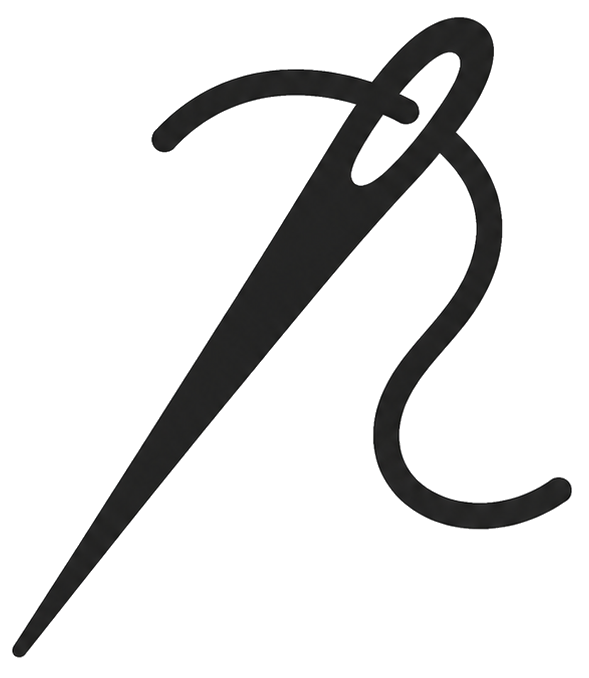
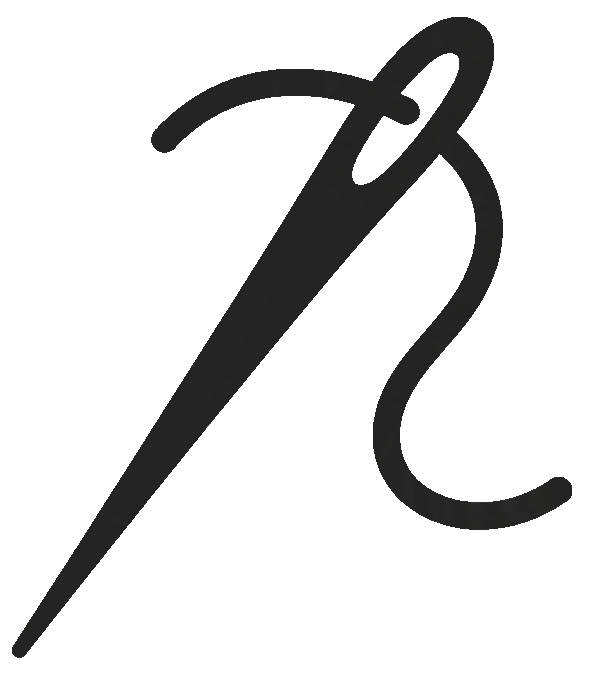
UI Styling

Changed region(s): [[0.9474, 0.7124, 0.9779, 0.7434]]

diff --git a/patchwork-app/public/styles.css b/patchwork-app/public/styles.css
@@ -229,11 +229,11 @@ button {
 .topbar {
   position: relative;
   display: flex;
-  min-height: 74px;
+  min-height: 82px;
   align-items: center;
   justify-content: flex-start;
   gap: 14px;
-  padding: 12px 18px 11px;
+  padding: 17px 18px 13px;
   border-bottom: 1px dashed var(--line-strong);
   background: var(--topbar-bg);
   backdrop-filter: blur(18px);
@@ -312,6 +312,45 @@ button {
   color: var(--ink);
   background: var(--surface);
   box-shadow: 0 8px 18px rgba(32, 33, 42, 0.08);
+}
+
+.topbar-actions {
+  display: flex;
+  align-items: center;
+  justify-content: flex-end;
+  margin-left: auto;
+}
+
+.sign-in-button {
+  display: inline-flex;
+  min-height: 40px;
+  align-items: center;
+  justify-content: center;
+  gap: 8px;
+  padding: 0 14px;
+  border-radius: 8px;
+  color: #06180f;
+  background: linear-gradient(90deg, #78f4a6 0%, #22c968 100%);
+  box-shadow: 0 10px 24px rgba(34, 201, 104, 0.22);
+  cursor: pointer;
+  font-weight: 800;
+  white-space: nowrap;
+  transition: filter 140ms ease, transform 140ms ease, box-shadow 140ms ease;
+}
+
+.sign-in-button:hover {
+  filter: brightness(1.05) saturate(1.04);
+  box-shadow: 0 12px 28px rgba(34, 201, 104, 0.28);
+}
+
+.sign-in-button:active {
+  transform: translateY(1px);
+}
+
+.sign-in-button .icon {
+  width: 18px;
+  height: 18px;
+  stroke-width: 2.15;
 }
 
 .icon {
@@ -571,6 +610,8 @@ h2 {
   width: min(680px, 58vw);
   height: auto;
   display: block;
+  transform: translateX(-3.5%);
+  transform-origin: left center;
   filter: drop-shadow(0 14px 24px rgba(0, 0, 0, 0.2));
 }
 
@@ -1352,15 +1393,16 @@ h2 {
 }
 
 .sew-action-icon {
-  width: 29px;
-  height: 29px;
-  flex: 0 0 auto;
+  width: 30px;
+  height: 30px;
+  flex: 0 0 30px;
   object-fit: contain;
-  filter: contrast(1.08) saturate(1.06);
-  image-rendering: auto;
-  backface-visibility: hidden;
-  transform: translateZ(0) scale(1.04);
-  transform-origin: center;
+
+  filter:
+    drop-shadow(0.6px 0 0 #222)
+    drop-shadow(-0.6px 0 0 #222)
+    drop-shadow(0 0.6px 0 #222)
+    drop-shadow(0 -0.6px 0 #222);
 }
 
 .settings-layout {
@@ -1877,6 +1919,12 @@ input:focus {
     display: none;
   }
 
+  .topbar-actions {
+    width: 100%;
+    margin-left: 0;
+    justify-content: flex-start;
+  }
+
   .workspace {
     min-height: 760px;
   }
@@ -1923,7 +1971,7 @@ input:focus {
   }
 
   .welcome-text-stack {
-    justify-items: center;
+    justify-items: start;
   }
 
   .welcome-wordmark {

diff --git a/patchwork-app/src/app.rs b/patchwork-app/src/app.rs
@@ -1,7 +1,7 @@
 use crate::{
     browse::BrowsePage,
     home::HomePage,
-    icons::{GearIcon, HomeIcon, SearchIcon},
+    icons::{ArrowRightToBracketIcon, GearIcon, HomeIcon, SearchIcon},
     model::{AppTab, LauncherModpack, LauncherSettings},
     settings::SettingsPage,
     tauri_bridge::{list_modpacks, load_launcher_settings},
@@ -102,6 +102,13 @@ fn TopBar(active_tab: ReadSignal<AppTab>, set_active_tab: WriteSignal<AppTab>) -
                     <span>"Settings"</span>
                 </button>
             </nav>
+
+            <div class="topbar-actions">
+                <button type="button" class="sign-in-button">
+                    <span>"Sign in"</span>
+                    <ArrowRightToBracketIcon />
+                </button>
+            </div>
         </header>
     }
 }

diff --git a/patchwork-app/src/icons.rs b/patchwork-app/src/icons.rs
@@ -32,6 +32,17 @@ pub(crate) fn SearchIcon() -> impl IntoView {
 }
 
 #[component]
+pub(crate) fn ArrowRightToBracketIcon() -> impl IntoView {
+    view! {
+        <svg class="icon" viewBox="0 0 24 24" aria-hidden="true">
+            <path d="M15 3h4a2 2 0 0 1 2 2v14a2 2 0 0 1-2 2h-4"></path>
+            <path d="m10 17 5-5-5-5"></path>
+            <path d="M15 12H3"></path>
+        </svg>
+    }
+}
+
+#[component]
 pub(crate) fn ArrowLeftIcon() -> impl IntoView {
     view! {
         <svg class="icon" viewBox="0 0 24 24" aria-hidden="true">
